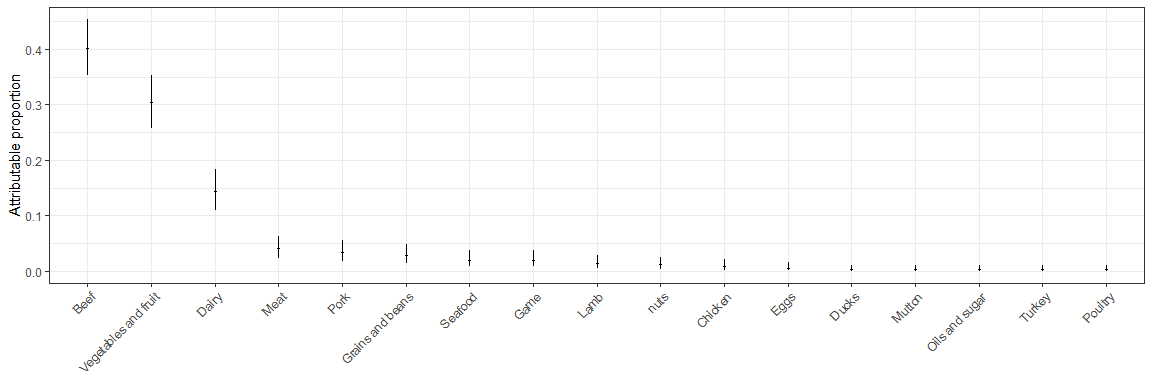
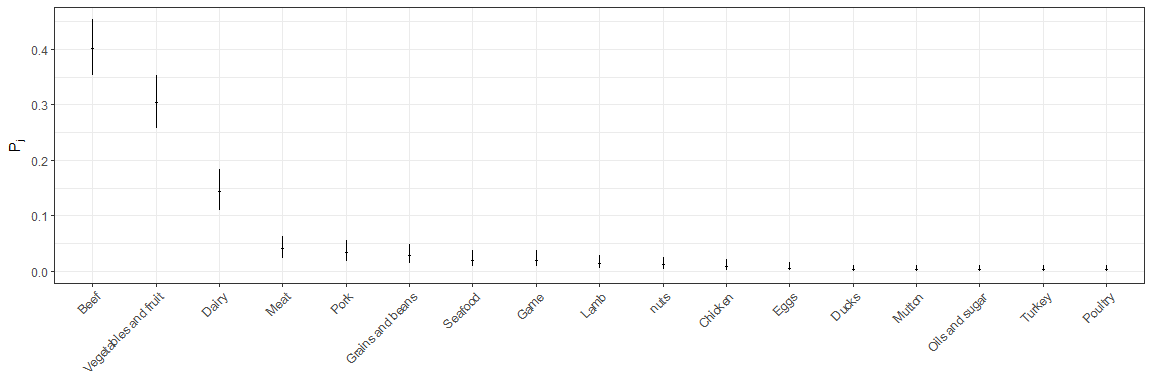
update plots

diff --git a/stec-outbreaks-multinom2.md b/stec-outbreaks-multinom2.md
@@ -1,7 +1,7 @@
 STEC outbreak model
 ================
 Bdevleesschauwer
-Sun Sep 09 19:20:17 2018
+Mon Sep 10 17:05:36 2018
 
 # Settings
 
@@ -263,7 +263,7 @@ ggplot(PriorS_df, aes(x = Food, y = mean)) +
   geom_pointrange(aes(ymin = lwr, ymax = upr), size = 0.1) +
   theme_bw() +
   theme(axis.text.x = element_text(angle = 45, hjust = 1)) +
-  scale_y_continuous("Attributable proportion") +
+  scale_y_continuous(expression(P[j])) +
   scale_x_discrete(NULL)
 ```
 
@@ -617,7 +617,88 @@ kable(AttribWPRO_unk_out[rev(order(AttribWPRO_unk_out[, 1])), ], digits = 1)
 | Eggs                 |  0.0 |  0.0 |   0.0 |
 
 ``` r
-## plot all results
+## normalized
+AttribAMRO_norm <- 100 * apply(AttribAMRO/100, 2, prop.table)
+AttribEURO_norm <- 100 * apply(AttribEURO/100, 2, prop.table)
+AttribWPRO_norm <- 100 * apply(AttribWPRO/100, 2, prop.table)
+
+AttribAMRO_norm_out <- t(apply(AttribAMRO_norm, 1, mean_ci))
+AttribEURO_norm_out <- t(apply(AttribEURO_norm, 1, mean_ci))
+AttribWPRO_norm_out <- t(apply(AttribWPRO_norm, 1, mean_ci))
+
+kable(AttribAMRO_norm_out[rev(order(AttribAMRO_norm_out[, 1])), ], digits = 1)
+```
+
+|                      | mean | 2.5% | 97.5% |
+| -------------------- | ---: | ---: | ----: |
+| Beef                 | 40.0 | 39.2 |  40.7 |
+| Vegetables and fruit | 35.2 | 34.2 |  36.3 |
+| Dairy                | 12.0 | 11.2 |  12.7 |
+| Grains and beans     |  3.0 |  2.4 |   3.8 |
+| Pork                 |  2.7 |  2.4 |   3.2 |
+| Meat                 |  2.5 |  2.4 |   2.9 |
+| Game                 |  1.2 |  1.2 |   1.5 |
+| Lamb                 |  1.0 |  0.9 |   1.2 |
+| nuts                 |  0.9 |  0.9 |   0.9 |
+| Seafood              |  0.9 |  0.9 |   0.9 |
+| Chicken              |  0.6 |  0.6 |   0.9 |
+| Eggs                 |  0.1 |  0.0 |   0.3 |
+| Oils and sugar       |  0.0 |  0.0 |   0.3 |
+| Turkey               |  0.0 |  0.0 |   0.0 |
+| Mutton               |  0.0 |  0.0 |   0.0 |
+| Ducks                |  0.0 |  0.0 |   0.0 |
+| Poultry              |  0.0 |  0.0 |   0.0 |
+
+``` r
+kable(AttribEURO_norm_out[rev(order(AttribEURO_norm_out[, 1])), ], digits = 1)
+```
+
+|                      | mean | 2.5% | 97.5% |
+| -------------------- | ---: | ---: | ----: |
+| Beef                 | 30.6 | 27.9 |  33.8 |
+| Vegetables and fruit | 27.9 | 25.0 |  30.9 |
+| Dairy                | 16.2 | 16.2 |  16.2 |
+| Meat                 |  7.5 |  7.4 |   8.8 |
+| Seafood              |  4.4 |  4.4 |   4.4 |
+| Pork                 |  4.4 |  4.4 |   4.4 |
+| Grains and beans     |  3.0 |  2.9 |   4.4 |
+| Lamb                 |  1.5 |  1.5 |   2.9 |
+| Chicken              |  1.5 |  1.5 |   1.5 |
+| Game                 |  1.5 |  1.5 |   1.5 |
+| Eggs                 |  1.5 |  1.5 |   1.5 |
+| Oils and sugar       |  0.0 |  0.0 |   0.0 |
+| nuts                 |  0.0 |  0.0 |   0.0 |
+| Mutton               |  0.0 |  0.0 |   0.0 |
+| Turkey               |  0.0 |  0.0 |   0.0 |
+| Ducks                |  0.0 |  0.0 |   0.0 |
+| Poultry              |  0.0 |  0.0 |   0.0 |
+
+``` r
+kable(AttribWPRO_norm_out[rev(order(AttribWPRO_norm_out[, 1])), ], digits = 1)
+```
+
+|                      | mean | 2.5% | 97.5% |
+| -------------------- | ---: | ---: | ----: |
+| Vegetables and fruit | 43.0 | 36.4 |  45.5 |
+| Dairy                | 27.3 | 27.3 |  27.3 |
+| Game                 |  9.1 |  9.1 |   9.1 |
+| Beef                 |  8.4 |  0.0 |   9.1 |
+| Meat                 |  5.9 |  0.0 |  18.2 |
+| Pork                 |  4.9 |  0.0 |  18.2 |
+| Grains and beans     |  1.5 |  0.0 |   9.1 |
+| Oils and sugar       |  0.0 |  0.0 |   0.0 |
+| nuts                 |  0.0 |  0.0 |   0.0 |
+| Seafood              |  0.0 |  0.0 |   0.0 |
+| Mutton               |  0.0 |  0.0 |   0.0 |
+| Lamb                 |  0.0 |  0.0 |   0.0 |
+| Turkey               |  0.0 |  0.0 |   0.0 |
+| Ducks                |  0.0 |  0.0 |   0.0 |
+| Chicken              |  0.0 |  0.0 |   0.0 |
+| Poultry              |  0.0 |  0.0 |   0.0 |
+| Eggs                 |  0.0 |  0.0 |   0.0 |
+
+``` r
+## plot all results / with unknown
 df <-
 rbind(
   data.frame(Region = "AMRO",
@@ -632,6 +713,7 @@ rbind(
 
 foods <- rev(rownames(AttribAMRO_out[order(AttribAMRO_out[, 1]), ]))
 df$Food <- factor(df$Food, levels = foods)
+df$Region <- gsub("O", "", df$Region)
 ```
 
 ``` r
@@ -648,6 +730,39 @@ ggplot(df, aes(x = Food, y = mean)) +
 ![](stec-outbreaks-multinom2_files/figure-gfm/unnamed-chunk-5-1.png)<!-- -->
 
 ``` r
+## plot all results / normalized
+df2 <-
+rbind(
+  data.frame(Region = "AMRO",
+             Food = rownames(AttribAMRO_out),
+             AttribAMRO_norm_out),
+  data.frame(Region = "EURO",
+             Food = rownames(AttribEURO_out),
+             AttribEURO_norm_out),
+  data.frame(Region = "WPRO",
+             Food = rownames(AttribWPRO_out),
+             AttribWPRO_norm_out))
+
+foods <- rev(rownames(AttribAMRO_out[order(AttribAMRO_out[, 1]), ]))
+df2$Food <- factor(df2$Food, levels = foods)
+df2$Region <- gsub("O", "", df2$Region)
+```
+
+``` r
+ggplot(df2, aes(x = Food, y = mean)) +
+  geom_col(fill = "grey90") +
+  geom_pointrange(aes(ymin = X2.5., ymax = X97.5.), size = 0.1) +
+  facet_grid(~Region) +
+  theme_bw() +
+  theme(axis.text.x = element_text(angle = 45, hjust = 1)) +
+  scale_y_continuous("Attributable proportion") +
+  scale_x_discrete(NULL)
+```
+
+![](stec-outbreaks-multinom2_files/figure-gfm/unnamed-chunk-6-1.png)<!-- -->
+
+``` r
+## summary table
 kable(
   digits = 1,
   cbind(AttribAMRO_unk_out, AttribEURO_unk_out, AttribWPRO_unk_out))
@@ -698,8 +813,8 @@ sessionInfo()
     ## [1] knitr_1.20    ggplot2_3.0.0 bd_0.0.12    
     ## 
     ## loaded via a namespace (and not attached):
-    ##  [1] Rcpp_0.12.18     highr_0.7        cellranger_1.1.0 compiler_3.5.1  
-    ##  [5] pillar_1.3.0     plyr_1.8.4       bindr_0.1.1      tools_3.5.1     
+    ##  [1] Rcpp_0.12.18     cellranger_1.1.0 compiler_3.5.1   pillar_1.3.0    
+    ##  [5] plyr_1.8.4       highr_0.7        bindr_0.1.1      tools_3.5.1     
     ##  [9] digest_0.6.15    evaluate_0.11    tibble_1.4.2     gtable_0.2.0    
     ## [13] pkgconfig_2.0.1  rlang_0.2.1      yaml_2.2.0       bindrcpp_0.2.2  
     ## [17] withr_2.1.2      stringr_1.3.1    dplyr_0.7.6      rprojroot_1.3-2 
